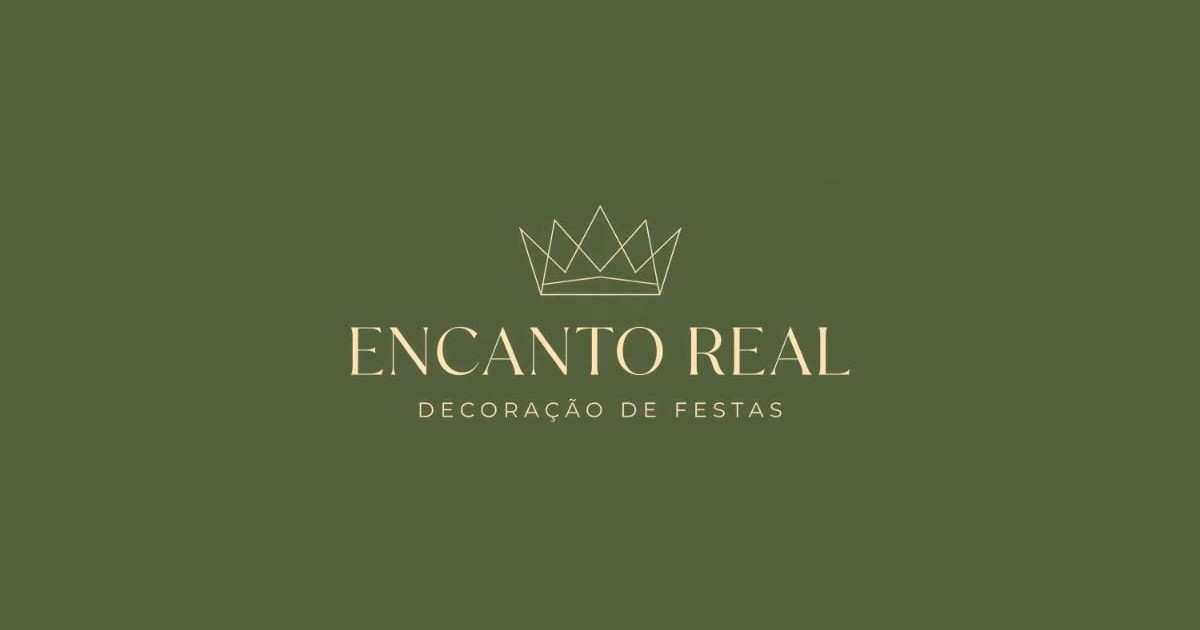
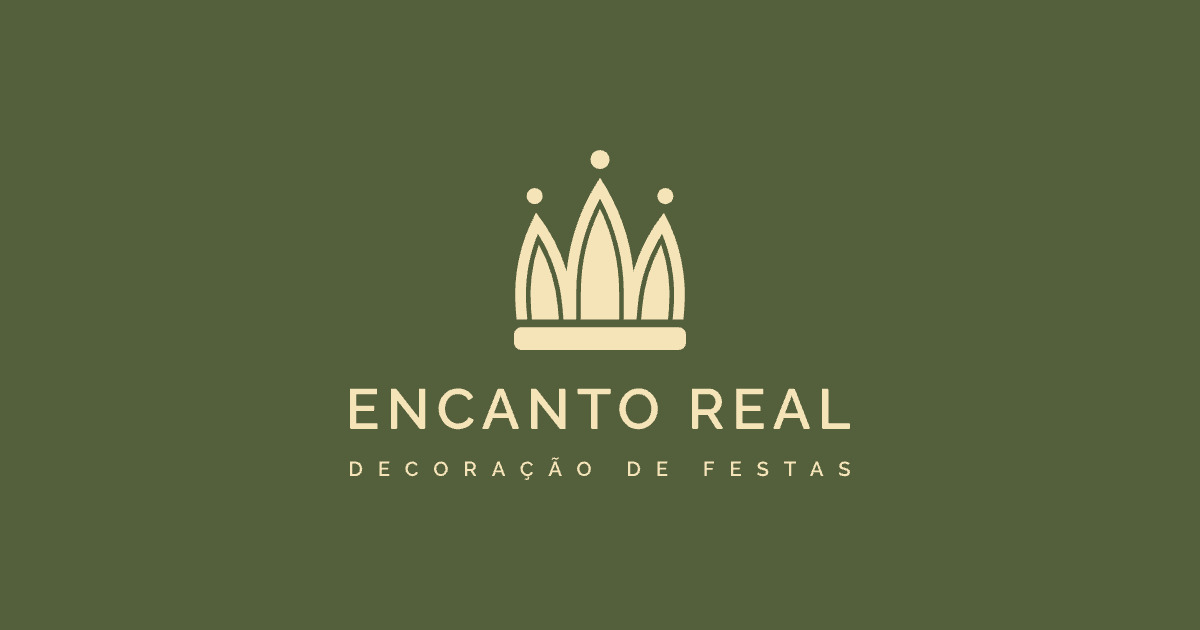
Marca nova: a coroa de arcos fechados, nas cores do início
- Cabeçalho: logótipo horizontal (no telemóvel, a versão compacta com a coroa por cima do nome); menu, rodapé, conta e 404 com a coroa nova.
- Ícones (favicon SVG e PNG, apple-touch, 192/512) e cartão de partilha 1200×630 refeitos com a coroa nova.
- Saem os PNG do logótipo antigo.

diff --git a/src/estilos/site.css b/src/estilos/site.css
@@ -110,7 +110,9 @@ main:focus { outline: none; }
 .topo { position: sticky; top: 0; z-index: 40; background: var(--verde); color: var(--champanhe); }
 .topo__barra { display: flex; align-items: center; gap: clamp(12px, 2vw, 28px); height: var(--topo); }
 .topo__marca { display: block; flex: none; }
-.topo__marca img { height: 48px; width: auto; }
+.topo__marca picture { display: block; }
+.topo__barra > .topo__botao { flex: none; }
+.topo__marca img { height: 38px; width: auto; }
 .topo__nav { display: flex; gap: clamp(14px, 2vw, 28px); }
 .topo__nav a { position: relative; text-decoration: none; font-weight: 500; font-size: 16px; padding: 8px 0; white-space: nowrap; }
 .topo__nav a::after { content: ''; position: absolute; left: 0; right: 0; bottom: 2px; height: 1.5px; background: currentColor; scale: 0 1; transition: scale .3s var(--suave); }
@@ -134,11 +136,12 @@ main:focus { outline: none; }
   .topo__menu, .topo__lupa { display: inline-grid; }
   .topo__barra { gap: 4px; }
   .topo__marca { margin-inline: auto; }
-  .topo__marca img { height: 42px; }
+  .topo__marca img { height: 32px; }
   .topo__accoes { gap: 0; }
   .topo__favoritos { display: none; }
 }
-@media (max-width: 380px) { .topo__marca img { height: 36px; } }
+/* no telemóvel, a versão compacta (a coroa por cima do nome): cabe entre o menu e os três ícones */
+@media (max-width: 600px) { .topo__marca img { height: auto; width: min(132px, calc(100vw - 220px)); } }
 
 /* menu da conta (com sessão) */
 .conta-menu { position: relative; }
@@ -175,7 +178,7 @@ dialog::backdrop { background: rgba(30, 34, 20, .42); backdrop-filter: blur(2px)
 .gaveta__topo { display: flex; align-items: center; justify-content: space-between; gap: 12px; padding: 12px 12px 12px 20px; border-bottom: 1px solid var(--linha); min-height: var(--topo); }
 .gaveta--menu .gaveta__topo { border-color: rgba(246, 228, 185, .2); }
 .gaveta__topo h2 { font: 600 21px/1.15 var(--titulos); letter-spacing: -.01em; }
-.gaveta__marca { height: 40px; width: auto; }
+.gaveta__marca { height: 30px; width: auto; }
 .gaveta__corpo { overflow: auto; overscroll-behavior: contain; }
 .menu-movel { padding: 12px 20px 32px; }
 .menu-movel__principal a { display: block; padding: 12px 0; font: 600 21px/1.2 var(--titulos); text-decoration: none; border-bottom: 1px solid rgba(246, 228, 185, .15); }
@@ -267,7 +270,7 @@ dialog::backdrop { background: rgba(30, 34, 20, .42); backdrop-filter: blur(2px)
 a.mosaico__azulejo:hover img { scale: 1.05; }
 .mosaico__azulejo--alto { grid-row: span 2; }
 .mosaico__azulejo--marca { display: grid; place-content: center; justify-items: center; gap: 6px; padding: 14px; text-align: center; background: var(--verde); color: var(--champanhe); }
-.mosaico__azulejo--marca img { width: 54%; height: auto; object-fit: contain; margin-bottom: 4px; }
+.mosaico__azulejo--marca img { width: 30%; height: auto; object-fit: contain; margin-bottom: 4px; }
 .mosaico__azulejo--marca strong { font: 600 clamp(17px, 1.7vw, 23px)/1.1 var(--titulos); }
 .mosaico__azulejo--marca span { font-size: 13px; opacity: .9; }
 .capa__controlos { display: flex; align-items: center; gap: 18px; margin-top: 30px; }
@@ -336,7 +339,7 @@ a.mosaico__azulejo:hover img { scale: 1.05; }
 .rodape { margin-top: var(--seccao); background: var(--verde); color: var(--champanhe); }
 .inicio .rodape { margin-top: 0; }
 .rodape__corpo { display: grid; grid-template-columns: minmax(0, 1.3fr) repeat(3, minmax(0, 1fr)); gap: 32px; padding-block: 56px 40px; }
-.rodape__marca img { width: 210px; height: auto; margin-bottom: 18px; }
+.rodape__marca img { width: 190px; height: auto; margin-bottom: 18px; }
 .rodape__marca p { max-width: 34ch; color: #EFE4C8; font-size: 15px; }
 .rodape__redes { display: flex; gap: 10px; margin-top: 18px; }
 .rodape__redes a { display: grid; place-items: center; width: 42px; height: 42px; border-radius: 50%; border: 1.5px solid rgba(246, 228, 185, .4); }
@@ -352,8 +355,8 @@ a.mosaico__azulejo:hover img { scale: 1.05; }
 .rodape__legal a { display: inline-flex; align-items: center; gap: 6px; min-height: 32px; text-decoration: none; }
 .rodape__legal a:hover { text-decoration: underline; text-underline-offset: 3px; }
 .lr-discreto .icone { width: 18px; height: 18px; }
-@media (max-width: 999px) { .rodape__corpo { grid-template-columns: repeat(3, minmax(0, 1fr)); } .rodape__marca { grid-column: 1 / -1; display: grid; grid-template-columns: auto minmax(0, 1fr); gap: 4px 24px; align-items: center; } .rodape__marca img { width: 170px; margin: 0; grid-row: span 2; } }
-@media (max-width: 639px) { .rodape__corpo { grid-template-columns: repeat(2, minmax(0, 1fr)); padding-top: 40px; } .rodape__marca { display: block; } .rodape__marca img { width: 180px; margin-bottom: 14px; } .rodape__encomendas { grid-column: 1 / -1; } .rodape__legal ul { display: grid; grid-template-columns: repeat(2, minmax(0, 1fr)); width: 100%; } }
+@media (max-width: 999px) { .rodape__corpo { grid-template-columns: repeat(3, minmax(0, 1fr)); } .rodape__marca { grid-column: 1 / -1; display: grid; grid-template-columns: auto minmax(0, 1fr); gap: 4px 24px; align-items: center; } .rodape__marca img { width: 160px; margin: 0; grid-row: span 2; } }
+@media (max-width: 639px) { .rodape__corpo { grid-template-columns: repeat(2, minmax(0, 1fr)); padding-top: 40px; } .rodape__marca { display: block; } .rodape__marca img { width: 170px; margin-bottom: 14px; } .rodape__encomendas { grid-column: 1 / -1; } .rodape__legal ul { display: grid; grid-template-columns: repeat(2, minmax(0, 1fr)); width: 100%; } }
 
 /* --------------------------------------------------------------------------------------- movimento ao descer */
 @media (prefers-reduced-motion: no-preference) {

diff --git a/src/estilos/paginas.css b/src/estilos/paginas.css
@@ -152,7 +152,7 @@ select.campo, .filtros__ordem select { appearance: none; background: var(--branc
 .vazio__icone .icone { width: 32px; height: 32px; }
 .vazio--pequeno { padding: 28px 16px; border-radius: 20px; background: var(--branco); border: 1px solid var(--linha); }
 .vazio--404 { min-height: 50vh; align-content: center; }
-.vazio__coroa { width: 120px; margin-bottom: 10px; }
+.vazio__coroa { width: 64px; margin-bottom: 10px; }
 .vazio__accoes { display: flex; flex-wrap: wrap; justify-content: center; gap: 12px 20px; margin-top: 18px; }
 
 /* --------------------------------------------------------------------------------------- ficha */
@@ -405,7 +405,7 @@ select.campo, .filtros__ordem select { appearance: none; background: var(--branc
 /* --------------------------------------------------------------------------------------- entrar e conta */
 .entrada { display: grid; place-items: center; padding-block: clamp(24px, 5vw, 64px); }
 .entrada__caixa { width: min(460px, 100%); display: grid; gap: 10px; padding: clamp(22px, 4vw, 36px); border-radius: var(--raio-g); background: var(--branco); border: 1px solid var(--linha); }
-.entrada__coroa { width: 72px; margin-bottom: 4px; }
+.entrada__coroa { width: 40px; margin-bottom: 4px; }
 .entrada .pagina__titulo { font-size: clamp(27px, 3.2vw, 34px); }
 .formulario { display: grid; gap: 16px; margin-top: 10px; }
 .formulario--largo { max-width: 760px; }
